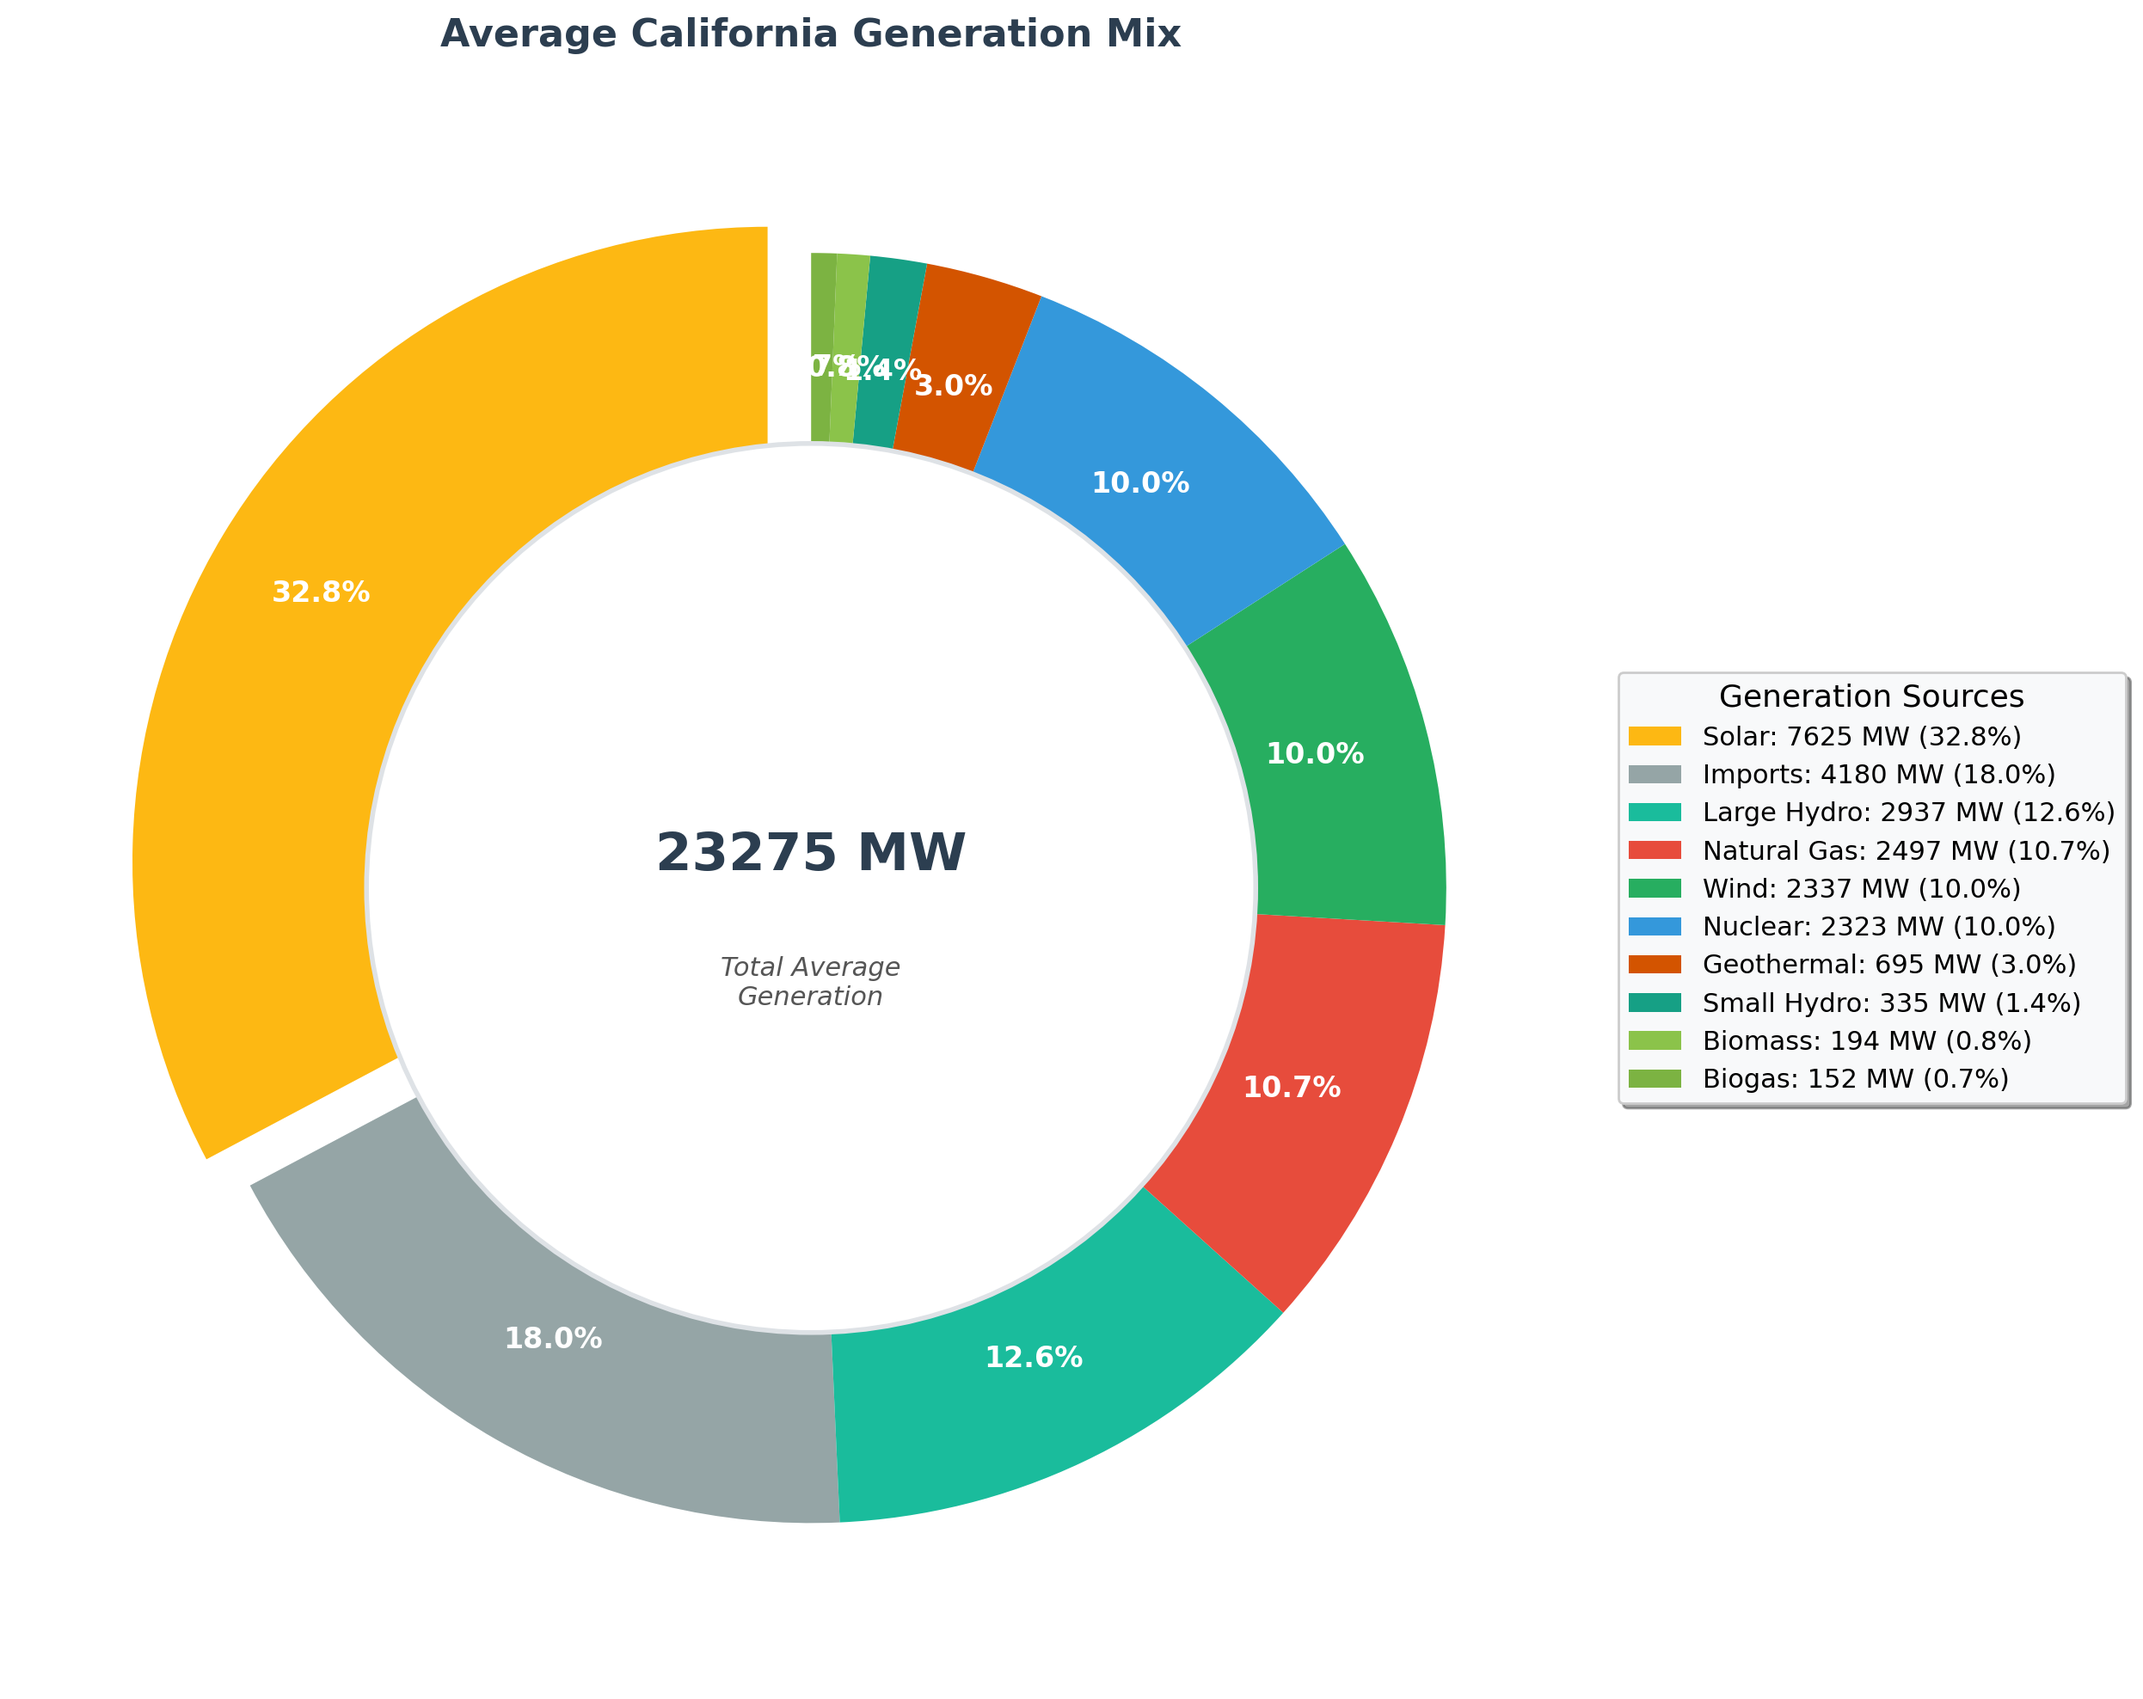
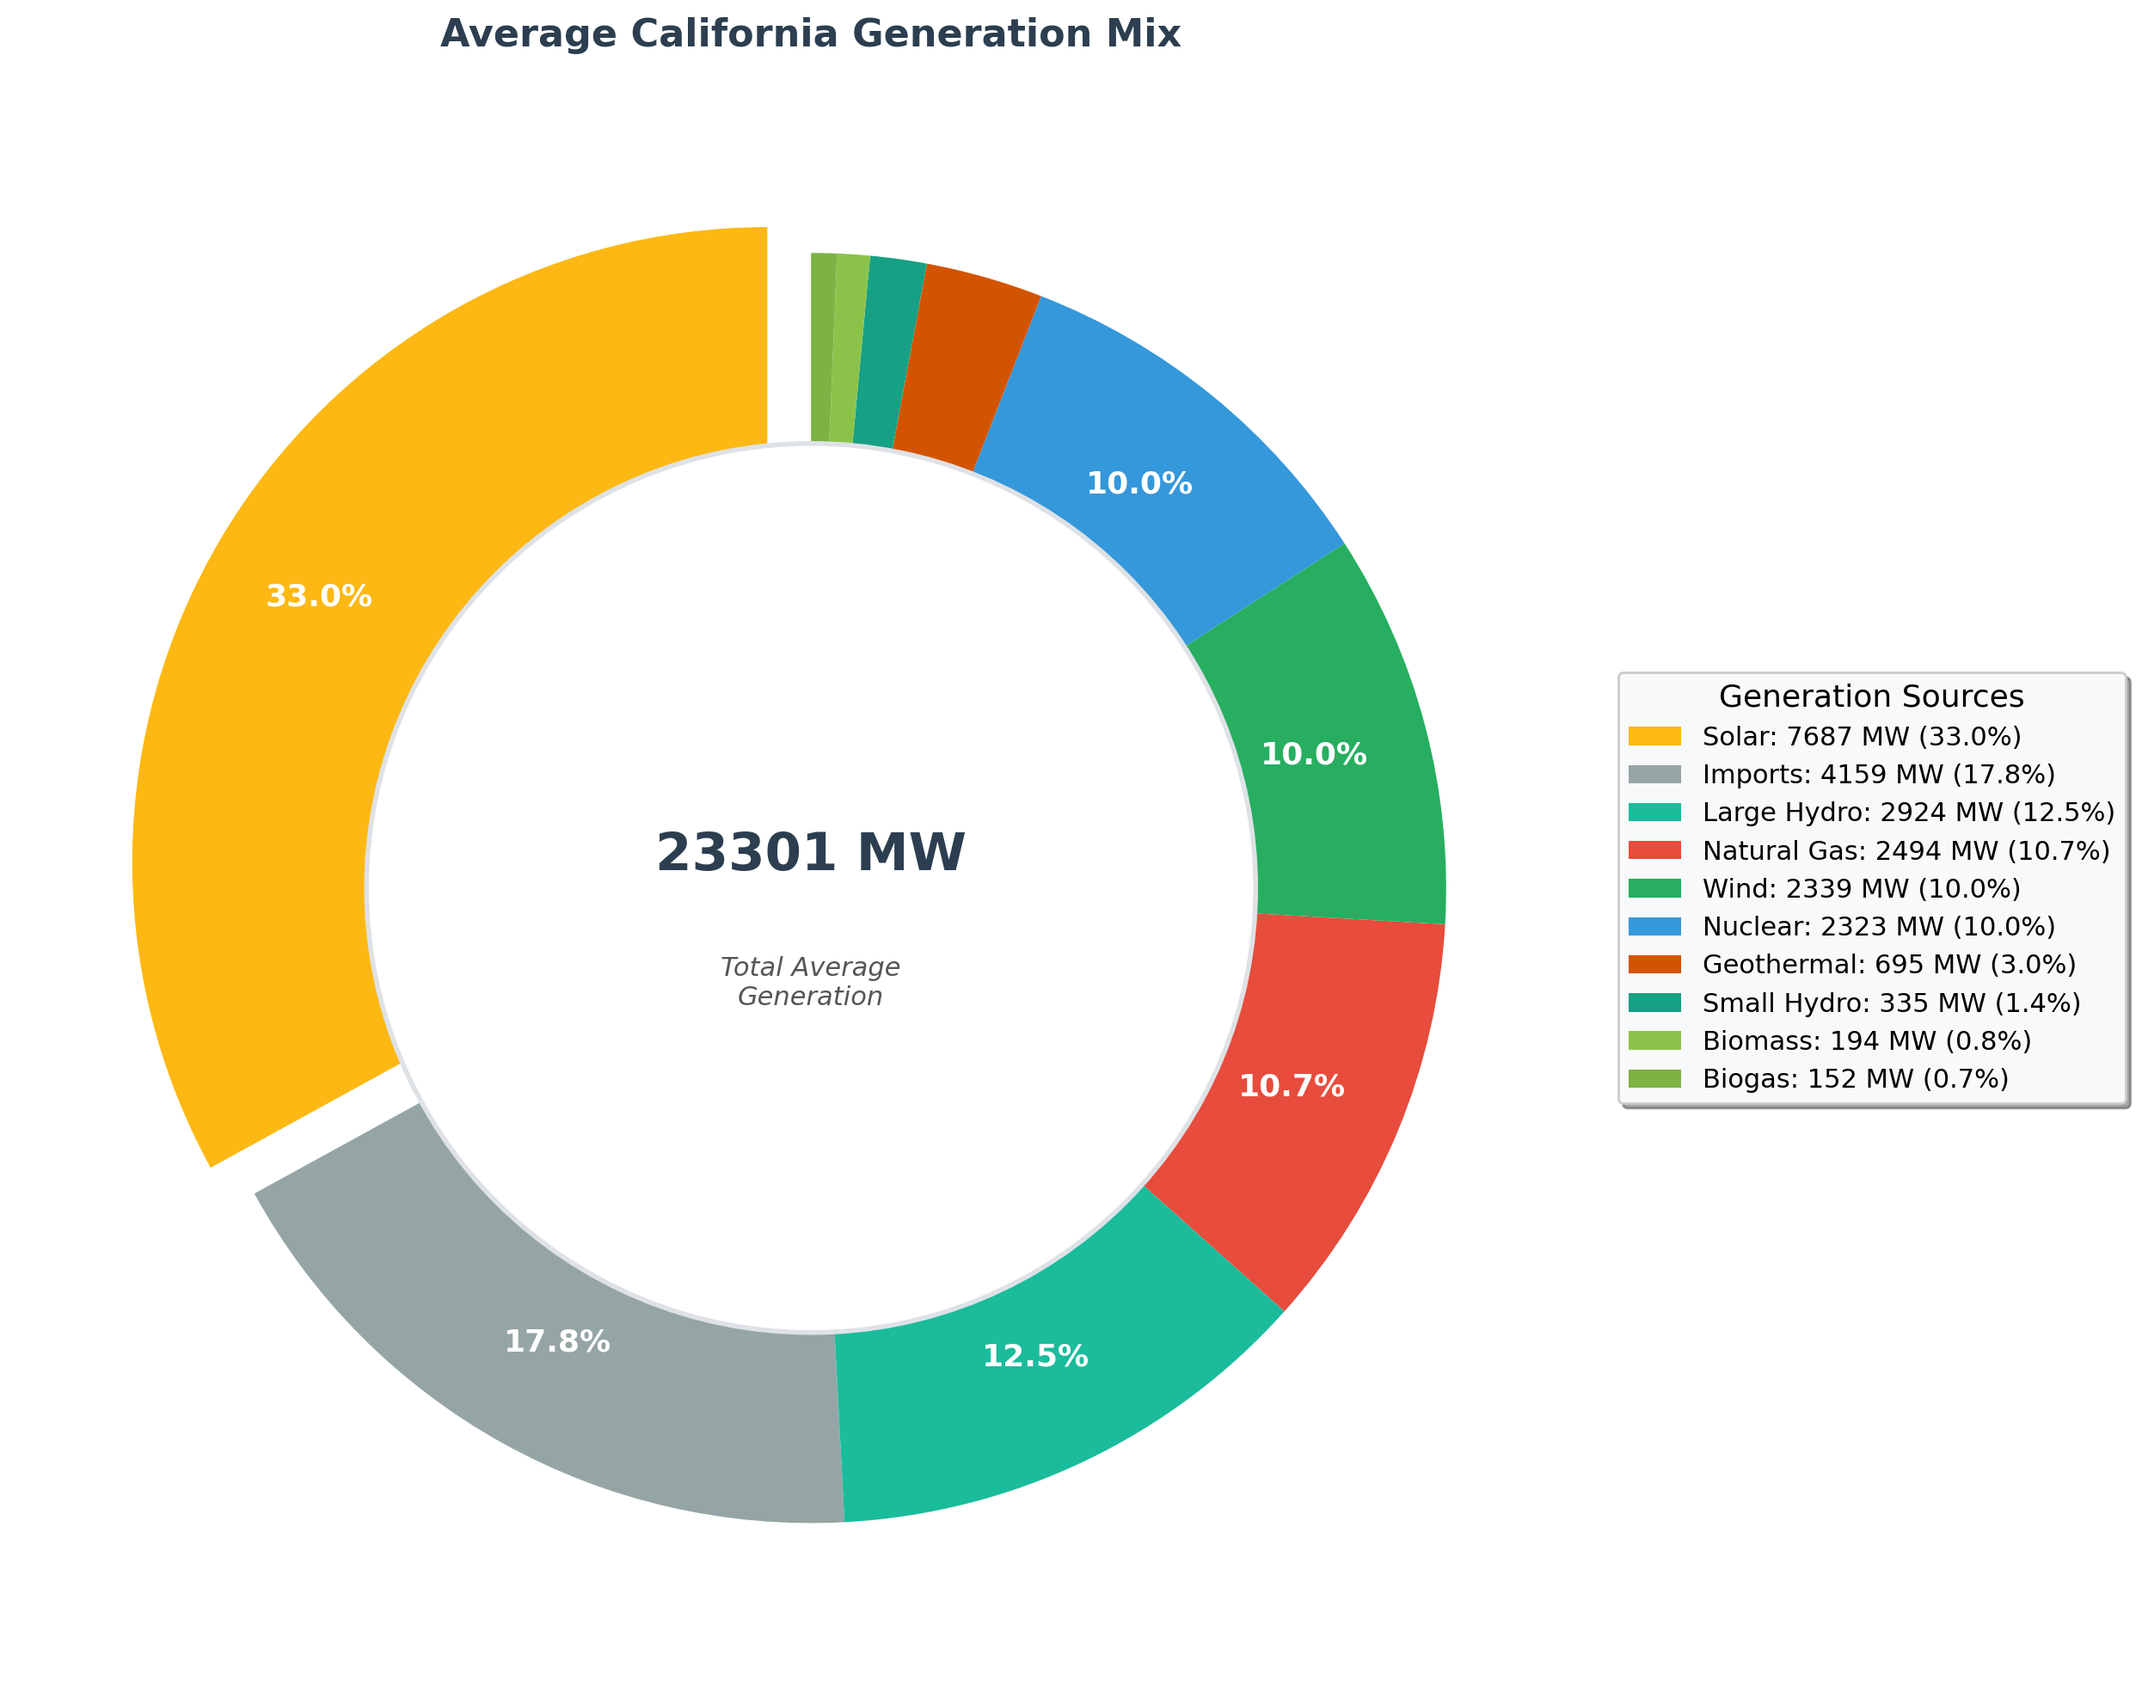
Fix overlapping percentages on small pie slices
Only show percentage labels on slices larger than 3% to prevent
overlap at the top of the chart. Small slices (Geothermal, Small Hydro,
Biomass, Biogas) now appear without labels on the chart itself.

All values remain visible in the legend on the right side.

diff --git a/notebooks/visualize_data.py b/notebooks/visualize_data.py
@@ -282,20 +282,26 @@ def plot_fuel_mix_pie(fuel_df: pd.DataFrame):
     }
     colors = [fuel_colors.get(fuel, '#7f8c8d') for fuel in avg_by_fuel.index]
 
+    # Create custom autopct function to only show percentages for slices > 3%
+    def make_autopct(values):
+        def my_autopct(pct):
+            return f'{pct:.1f}%' if pct > 3 else ''
+        return my_autopct
+
     # Create pie chart without labels (use legend instead)
     wedges, texts, autotexts = ax.pie(avg_by_fuel.values,
                                        labels=None,  # Remove labels to avoid overlap
-                                       autopct='%1.1f%%',
+                                       autopct=make_autopct(avg_by_fuel.values),
                                        colors=colors,
                                        startangle=90,
-                                       textprops={'fontsize': 12, 'weight': 'bold'},
+                                       textprops={'fontsize': 13, 'weight': 'bold'},
                                        pctdistance=0.82,
                                        explode=[0.08 if i == 0 else 0 for i in range(len(avg_by_fuel))])
 
     # Make percentage text white and bold
     for autotext in autotexts:
         autotext.set_color('white')
-        autotext.set_fontsize(12)
+        autotext.set_fontsize(13)
         autotext.set_weight('bold')
 
     # Create legend with fuel names and MW values
